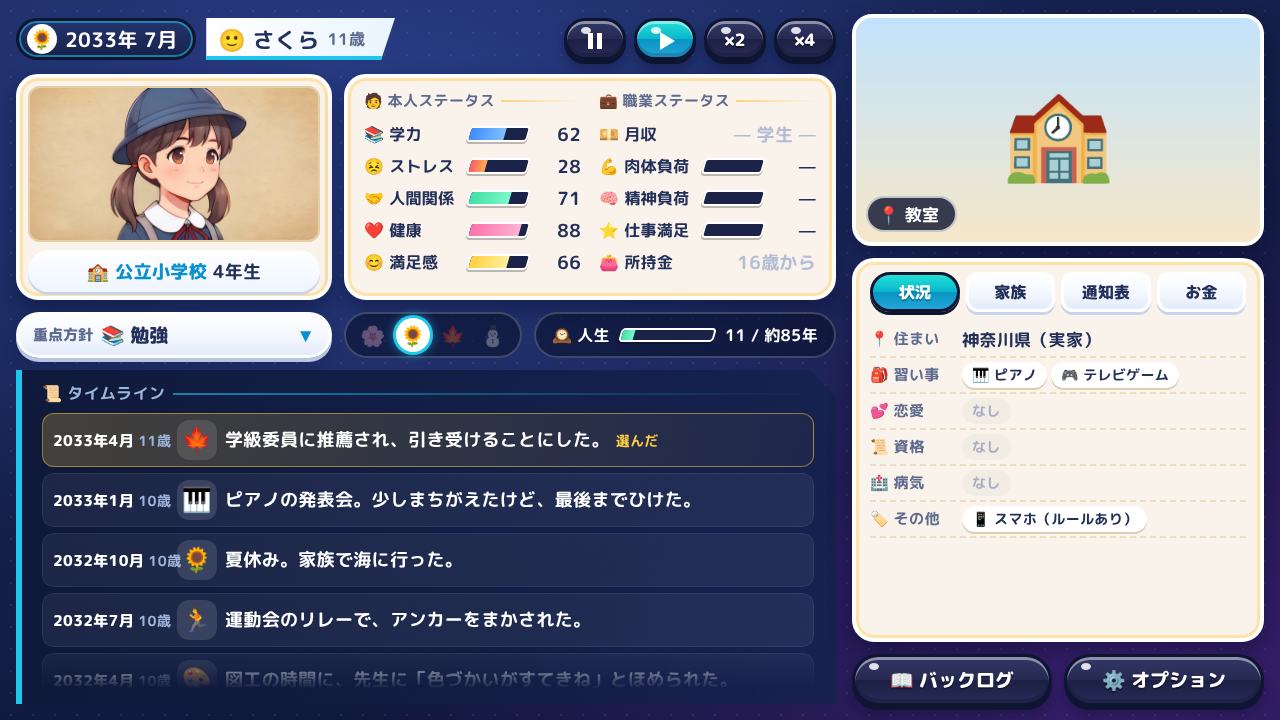
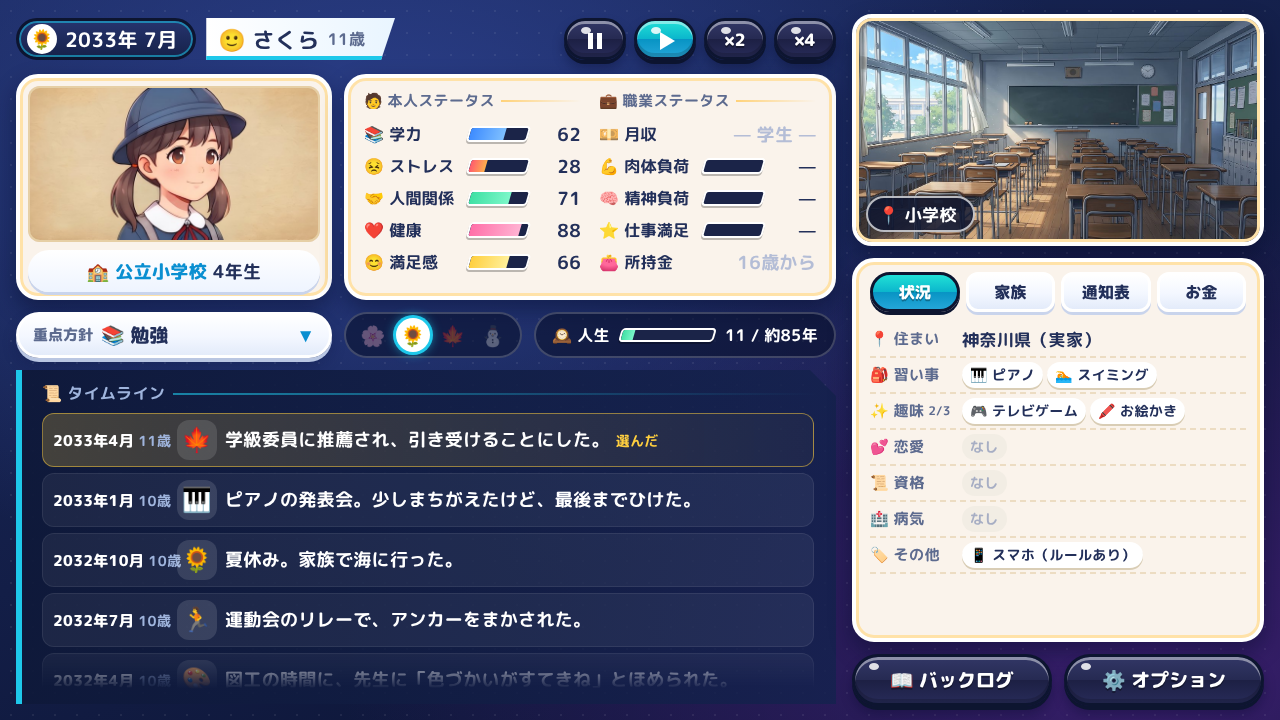
Add 18 backgrounds, headquarters assignment, and a separate hobby slot
Field jobs (police, fire, factory, etc.) can move to HQ and switch to the
building-exterior background; hobbies no longer share the lessons/clubs slot.

Claude-Session: https://claude.ai/code/session_014jpFHFwaTKn7m7KqBEwBuE

Changed region(s): [[0.6562, 0.0, 1.0, 0.3361], [0.6562, 0.4889, 0.9375, 0.6417], [0.6562, 0.6111, 0.875, 0.7944]]

diff --git a/ui/mock.html b/ui/mock.html
@@ -126,8 +126,8 @@ button:active{transform:translateY(3px) scale(.98)}
 @keyframes fade{from{opacity:0;transform:translateX(8px)}to{opacity:1;transform:none}}
 .kv{display:grid;grid-template-columns:92px 1fr;align-items:center;min-height:36px;border-bottom:2px dashed #ecdcc2;font-size:17px}
 .kv .k{color:var(--ink2);font-size:15px;display:flex;align-items:center;gap:4px}
-.chips{display:flex;flex-wrap:wrap;gap:4px;padding:3px 0}
-.chip{display:inline-flex;align-items:center;gap:3px;height:26px;padding:0 10px;border-radius:999px;background:#fff;box-shadow:0 2px 0 #d9cdb5;font-size:14px}
+.chips{display:flex;flex-wrap:nowrap;gap:4px;padding:3px 0;overflow:hidden}
+.chip{display:inline-flex;align-items:center;gap:3px;height:26px;padding:0 8px;white-space:nowrap;border-radius:999px;background:#fff;box-shadow:0 2px 0 #d9cdb5;font-size:14px}
 .chip.no{color:#a7aec4;background:#f2ede4;box-shadow:none}
 .fam{display:grid;grid-template-columns:44px 64px 1fr;align-items:center;min-height:46px;border-bottom:2px dashed #ecdcc2;font-size:16px}
 .fam .av{width:36px;height:36px;border-radius:50%;background:#fff;display:flex;align-items:center;justify-content:center;font-size:22px;box-shadow:0 2px 0 #d9cdb5}
@@ -221,7 +221,7 @@ button:active{transform:translateY(3px) scale(.98)}
   </div>
   <div id="paused">⏸ 一時停止中</div>
 
-  <div id="bg"><div class="ph">🏫</div><div class="tag">📍 教室</div></div>
+  <div id="bg" style="background-image:url(../assets/bg/elem.jpg)"><div class="tag">📍 小学校</div></div>
 
   <div class="pearl" id="det">
     <div class="tabs">
@@ -232,7 +232,8 @@ button:active{transform:translateY(3px) scale(.98)}
     </div>
     <div class="page on" id="p1">
       <div class="kv"><span class="k">📍 住まい</span><span>神奈川県（実家）</span></div>
-      <div class="kv"><span class="k">🎒 習い事</span><span class="chips"><span class="chip">🎹 ピアノ</span><span class="chip">🎮 テレビゲーム</span></span></div>
+      <div class="kv"><span class="k">🎒 習い事</span><span class="chips"><span class="chip">🎹 ピアノ</span><span class="chip">🏊 スイミング</span></span></div>
+      <div class="kv"><span class="k">✨ 趣味 <small style="font-size:12px">2/3</small></span><span class="chips"><span class="chip">🎮 テレビゲーム</span><span class="chip">🖍 お絵かき</span></span></div>
       <div class="kv"><span class="k">💕 恋愛</span><span class="chips"><span class="chip no">なし</span></span></div>
       <div class="kv"><span class="k">📜 資格</span><span class="chips"><span class="chip no">なし</span></span></div>
       <div class="kv"><span class="k">🏥 病気</span><span class="chips"><span class="chip no">なし</span></span></div>

diff --git a/docs/10-event-catalog.md b/docs/10-event-catalog.md
@@ -71,7 +71,7 @@
 | 🚗 | `ev_m_license_return` | 75〜100歳 春 | 必要:lic_car / 除外:license_returned | {age}歳。家族から「運転免許、そろそろ返したら？」と言われた。 | 🪪 免許を返納する<br>🚗 まだ運転を続ける |
 | 🕊 | `ev_m_death` |  |  | {year}年{month}月。{name}は{age}歳で人生を終えた。{deathCause} |  |
 
-## ランダム選択肢イベント（98件）
+## ランダム選択肢イベント（100件）
 
 | | ID | 時期 | 条件 | 文章 | 選択肢 |
 |---|---|---|---|---|---|
@@ -172,6 +172,8 @@
 | 🏘 | `ev_r_downsize` | 70〜95歳 | 必要:owns_house / 除外:mortgage | 広い家の手入れが大変になってきた。 | 🏢 家を売って小さなマンションへ<br>🏡 サービス付き高齢者住宅に入る<br>🏠 住み慣れた家で暮らす |
 | 📓 | `ev_r_ending_note` | 70〜105歳 |  | 「もしものとき」のことを考えておく？ | 📓 エンディングノート・遺言を書く<br>🙂 まだ考えたくない |
 | 🍻 | `ev_r_reunion` | 25〜80歳 |  | {schoolName}の同窓会のお知らせが届いた。 | 🍻 行く<br>🙅 行かない |
+| 🏢 | `ev_r_hq_transfer` | 30〜58歳 | 除外:hq_assign / 雇用:seishain/civil_servant | {hqName}への異動の話が来た。現場をはなれ、全体の計画や管理をする仕事になる。 | 🏢 本社（本部）で働く<br>🔧 現場に残りたいと伝える |
+| ✨ | `ev_r_new_hobby` | 6〜105歳 |  | {hobbyTrigger}がきっかけで、新しいことをやってみたくなった。（趣味は3つまで） | ［候補リスト:clubs.hobbies］<br>🙂 今の趣味で十分 |
 | 🏥 | `ev_r_spouse_illness` |  | 必要:married / 人物:spouse | {spouse}が病気で入院した。 | 🏥 仕事を調整して付き添う<br>💼 仕事を続け、できる範囲で支える |
 
 ## 流れるだけイベント（62件）
